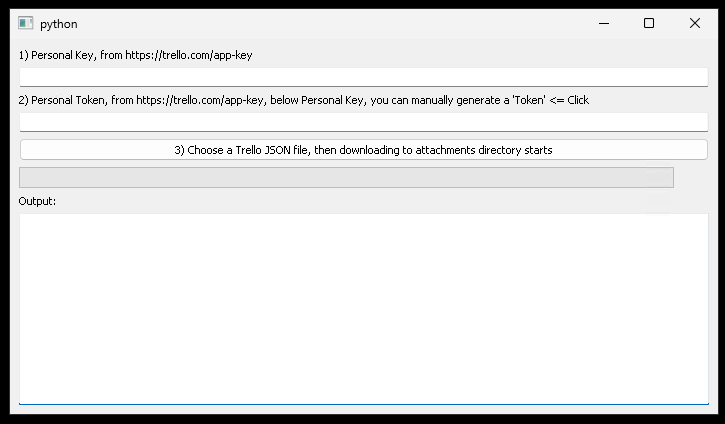
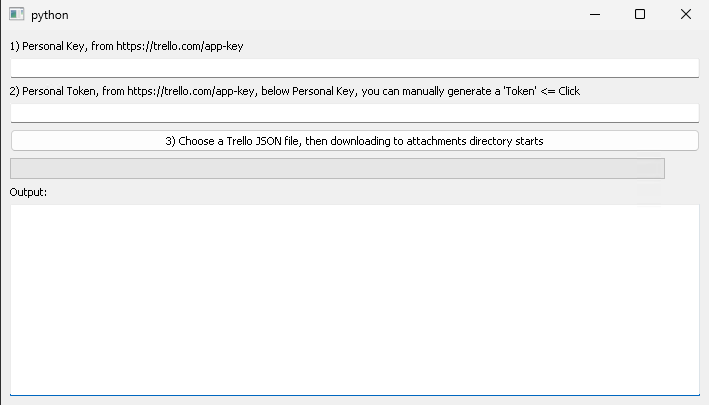
Updated screenshot.

Changed region(s): [[0.0, 0.0, 1.0, 1.0]]

diff --git a/README.md b/README.md
@@ -1,6 +1,6 @@
 # Trello Card Attachments Downloader (TCAD)
 
-<img src="https://github.com/wekan/trello-attachments-downloader/blob/main/assets/screenshot.png?raw=true" width="60%" alt="Screenshot" />
+<img src="https://github.com/wekan/trello-attachments-downloader/blob/main/assets/screenshot.png?raw=true" width="80%" alt="Screenshot" />
 
 - Originally from https://github.com/SeyedEhsanHosseini/tcad
 - xet7 changed:
